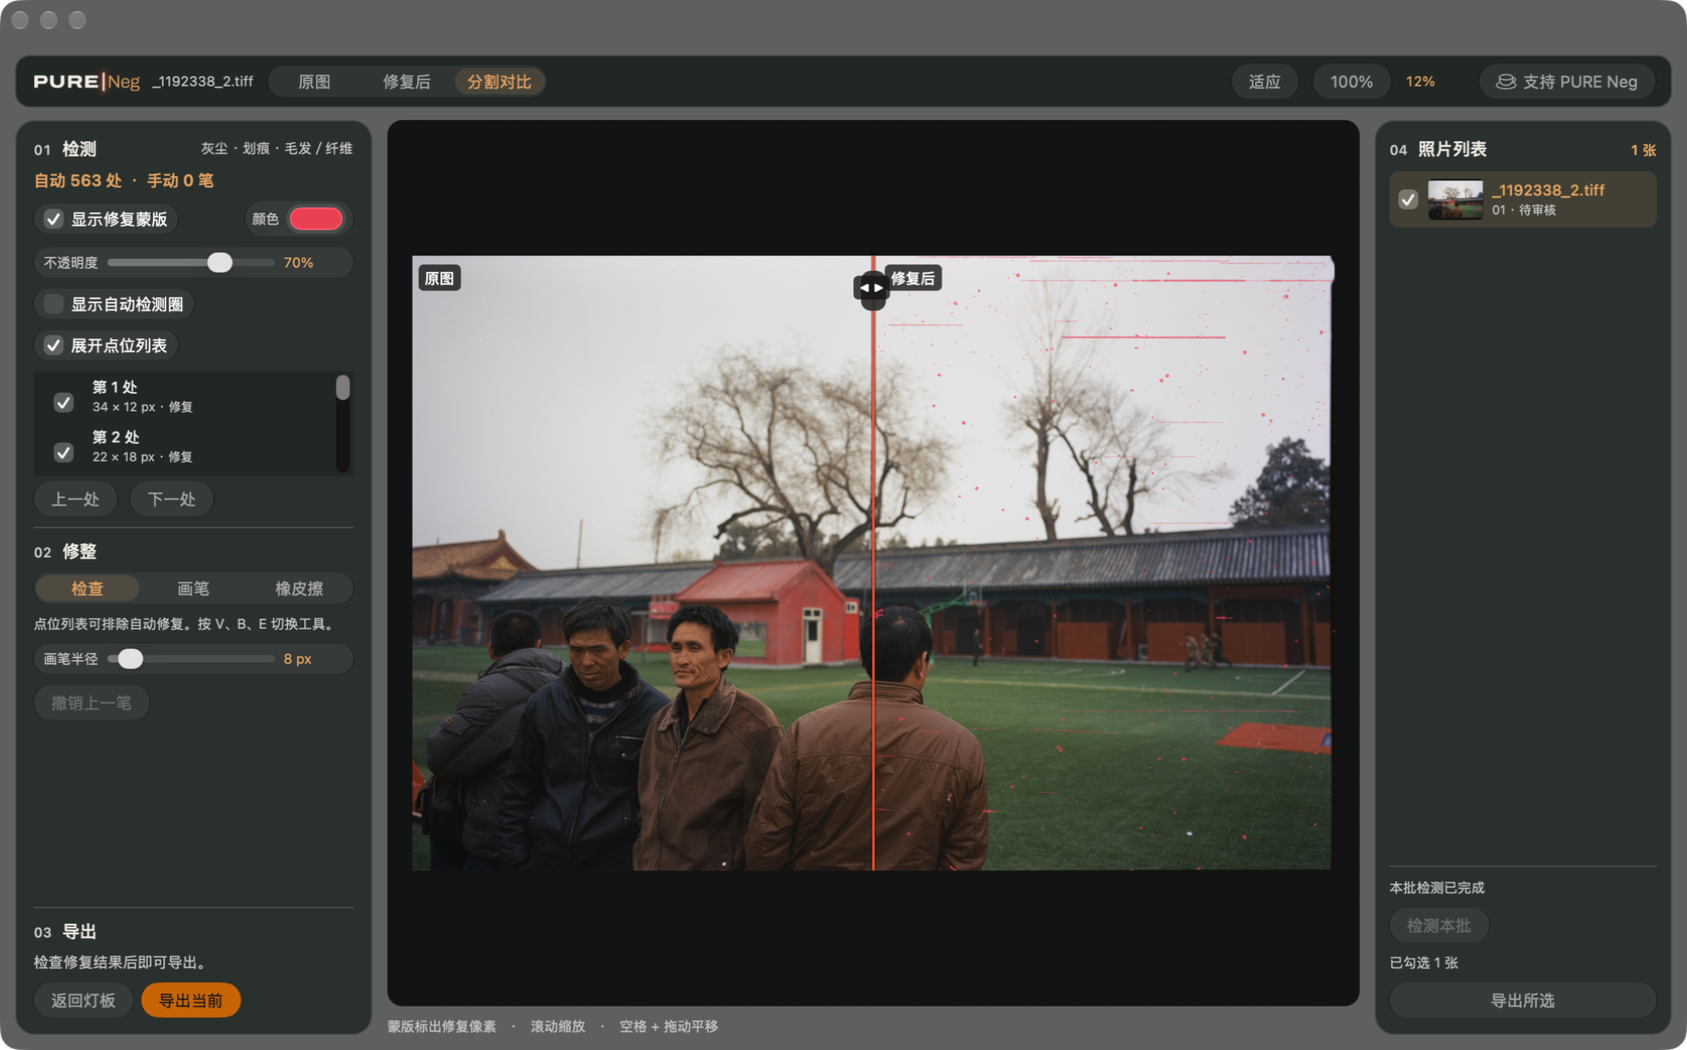
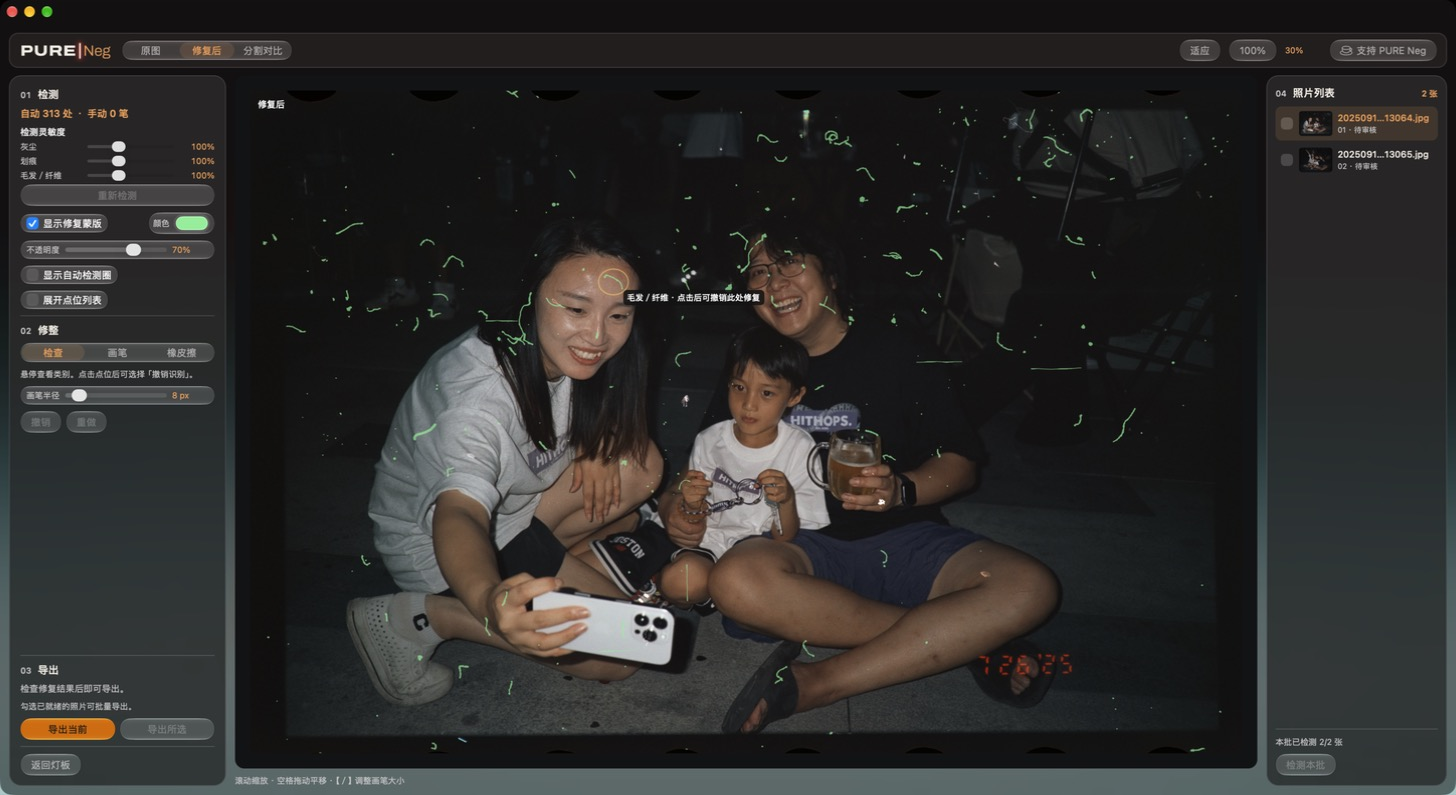
README: 0.4.8 界面截图（灯板点亮、检查模式悬停光圈）
Claude-Session: https://claude.ai/code/session_01TiLyxTJ8rT2ChDCWjjsqiG

diff --git a/README.md b/README.md
@@ -36,7 +36,7 @@ Apple 芯片 Mac，macOS 14 或更新版本。 · Requires an Apple silicon Mac 
 
 ### 观片台 · Light Table
 
-![PURE Neg 观片台。候选区位于上方，带原始帧号的底片袋位于下方](docs/images/light-table.png)
+![PURE Neg 0.4.8 观片台。灯板已点亮，候选区位于上方，带原始帧号的底片袋位于下方](docs/images/light-table.png)
 
 导入多张 TIFF 或 JPEG 后，在灯板上点选底片。底片会从袋中移到上方候选区，再点一次可放回。候选区为空时，「下一步」会纳入整卷。右下角的电源按钮可点亮灯板，开关时有咔嗒声，开灯时像日光灯一样闪几下再稳定点亮。关闭时指示灯为红色，开启时为绿色。在支持 HDR 的屏幕上，空白灯面用屏幕可长时间保持的最高亮度发光，底片袋、托盘和底片按透光比例暗一些，袋面透出柔和的磨砂塑料质感，接缝和印字保留细节。
 
@@ -44,11 +44,13 @@ Import a batch of TIFF or JPEG scans and click frames to move them from the film
 
 ### 除尘审核 · Repair review
 
-![PURE Neg 0.4.6 的除尘审核页。中央分割对比原图和修复后照片，右半显示红色修复蒙版](docs/images/review.png)
+![PURE Neg 0.4.8 的除尘审核页。检查模式下，绿色蒙版标出 313 处自动修复，鼠标悬停的纤维外圈出现光圈和撤销提示](docs/images/review.png)
 
 中央画布可切换「原图」「修复后」和「分割对比」，也能缩放检查。左栏用可调颜色和不透明度的蒙版标出修复位置。在检查模式把鼠标移到修复点上，修复点外圈会出现呼吸光圈，提示会写明类别和「点击后可撤销此处修复」。用画笔补修漏点，用橡皮擦恢复误修，也可从点位列表排除整处；每张最多 1024 笔。撤销、重做或修整后重新计算时，画面右上角显示「正在更新…」。进入「分割对比」时自动隐藏蒙版，离开后恢复原设置。右栏保留原始帧号，显示检测进度和处理状态。检测中可直接点击另一张照片切换。批量处理时，默认闲置 4 秒后检测其余照片，操作时暂停。
 
 Switch between **Original**, **Repaired**, and **Split View**, and zoom in to inspect the repair mask. Hover a repair to see a glowing ring and a hint that a click undoes it. Use the brush on missed spots, the eraser to restore details, or the spot list to exclude a whole detection. An indicator shows while the preview updates, and Split View hides the mask until you leave it. The sidebar keeps the original frame numbers and shows processing progress. Batch detection starts after four seconds of inactivity by default and pauses while you work.
+
+![检查模式细节：悬停在一根纤维上，外圈出现暖色光圈，提示「毛发 / 纤维 · 点击后可撤销此处修复」](docs/images/review-hover.png)
 
 检查修复结果后，点左下角「导出当前」。也可在右侧勾选多张照片，再点「导出所选」。支持按原始分辨率导出 TIFF、JPEG 或 PNG。照片直接保存到所选目录，文件名为「原文件名-PN」，例如 `20250918-ECN213064-PN.jpg`；重名时自动加序号，不会覆盖。修复蒙版 TIFF 默认不导出，需要时在保存窗口勾选。导出后仍可继续修整，再导出一个新版本。
 
